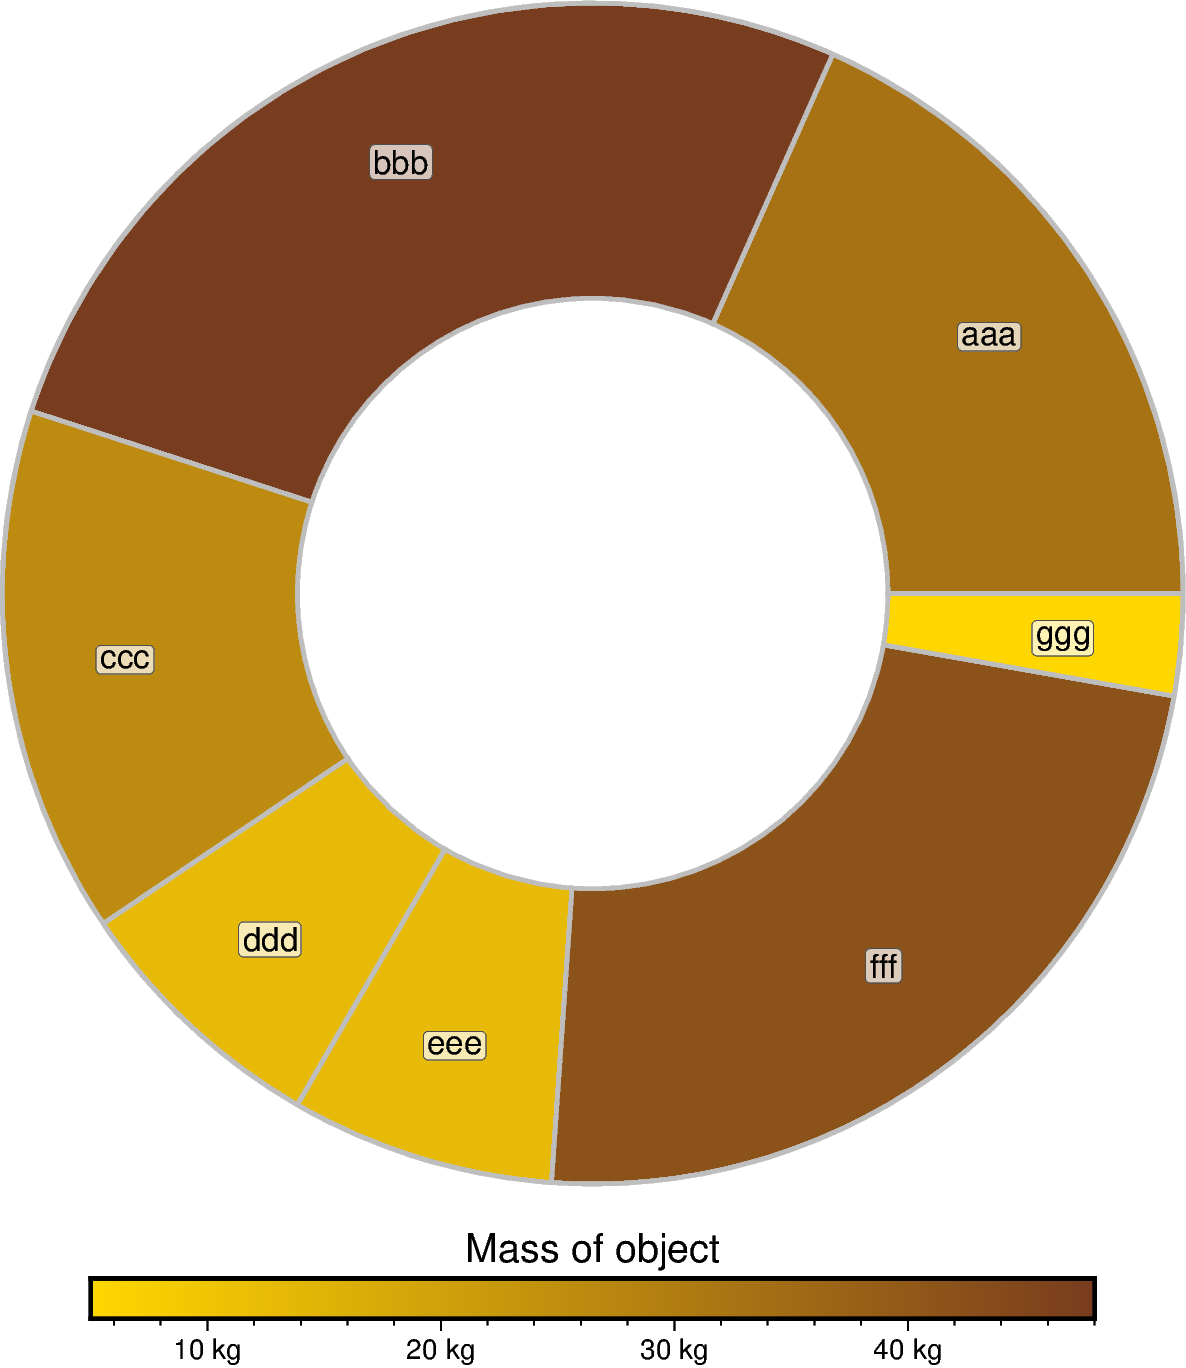
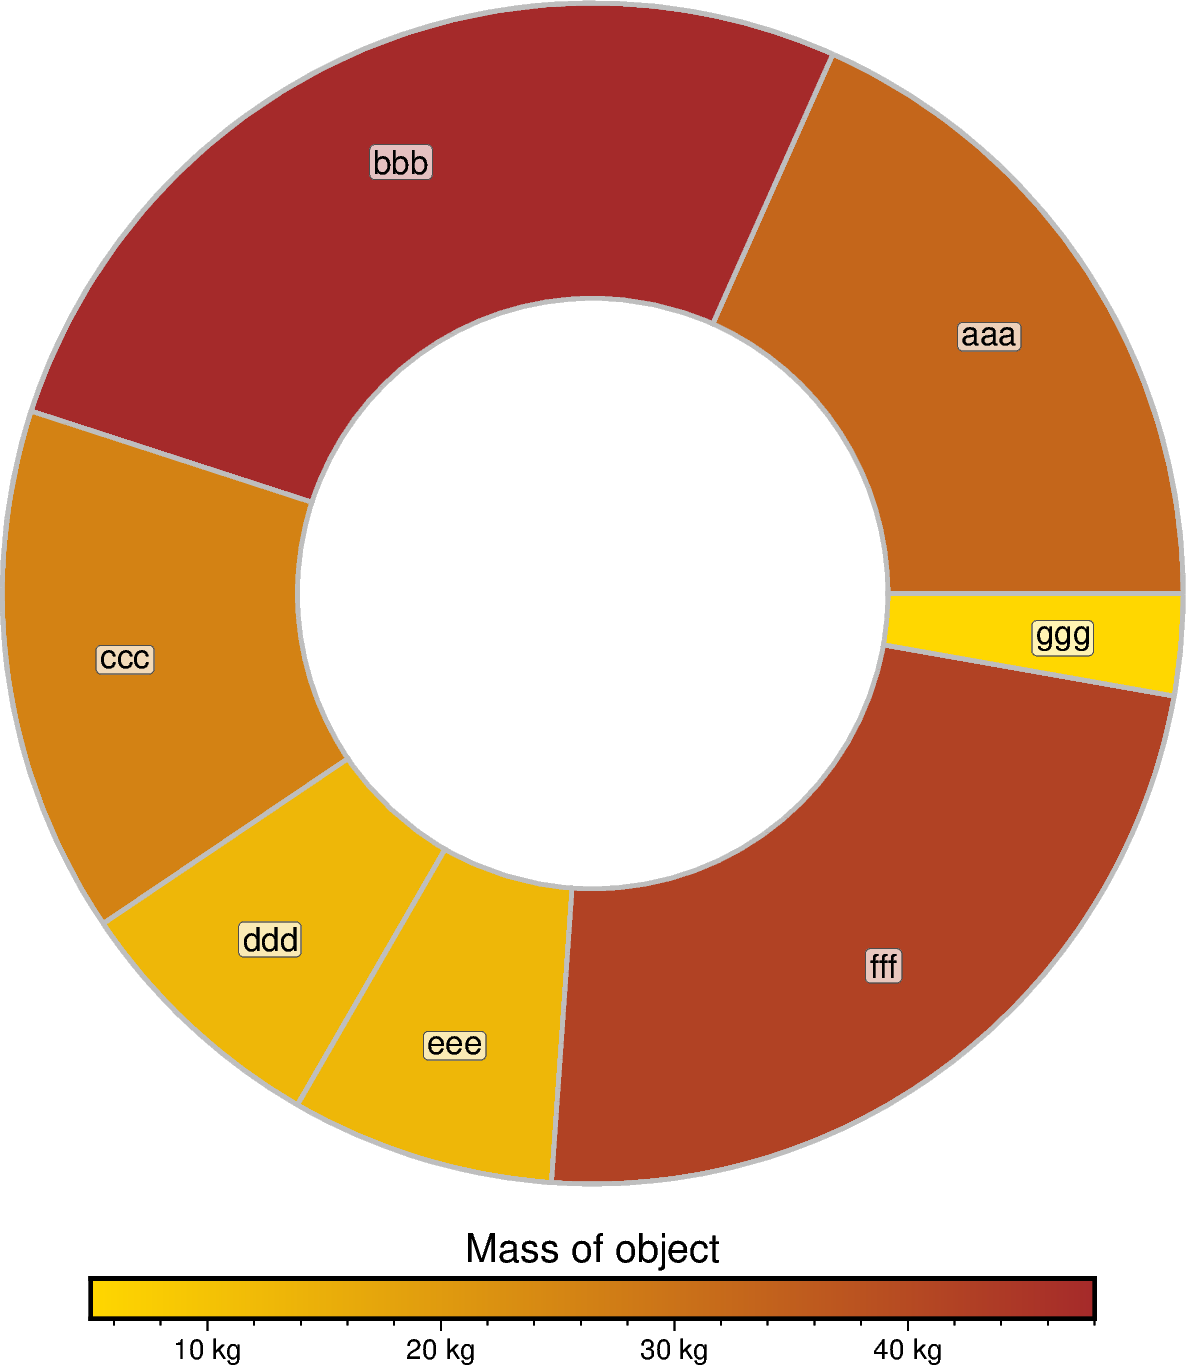
Use same brown in examples

diff --git a/014_general_stats/04_pie_chart/pie_chart_pygmt.py b/014_general_stats/04_pie_chart/pie_chart_pygmt.py
@@ -262,7 +262,7 @@ pie_chart(
 )
 
 # -----------------------------------------------------------------------------
-colors = ["gold", "darkbrown"]
+colors = ["gold", "brown"]
 
 pie_chart(
     sectors=sectors,
